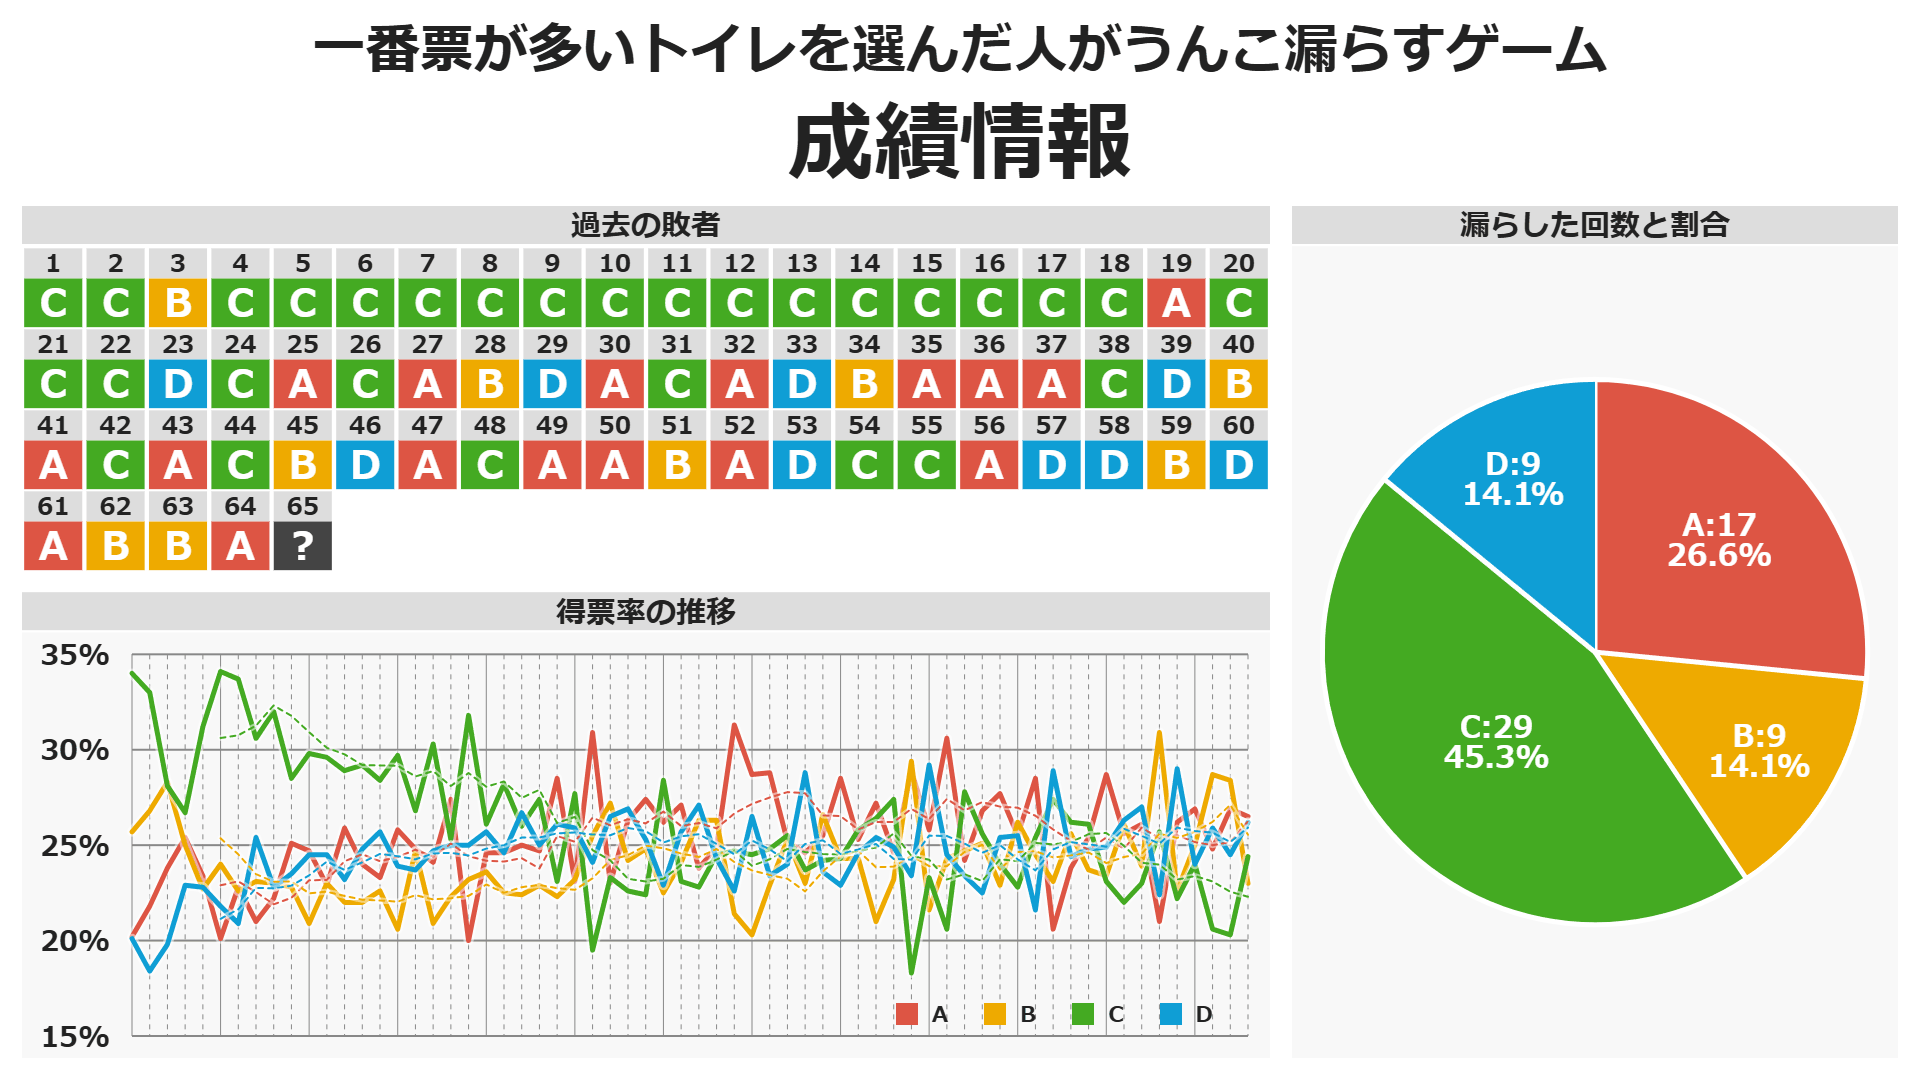
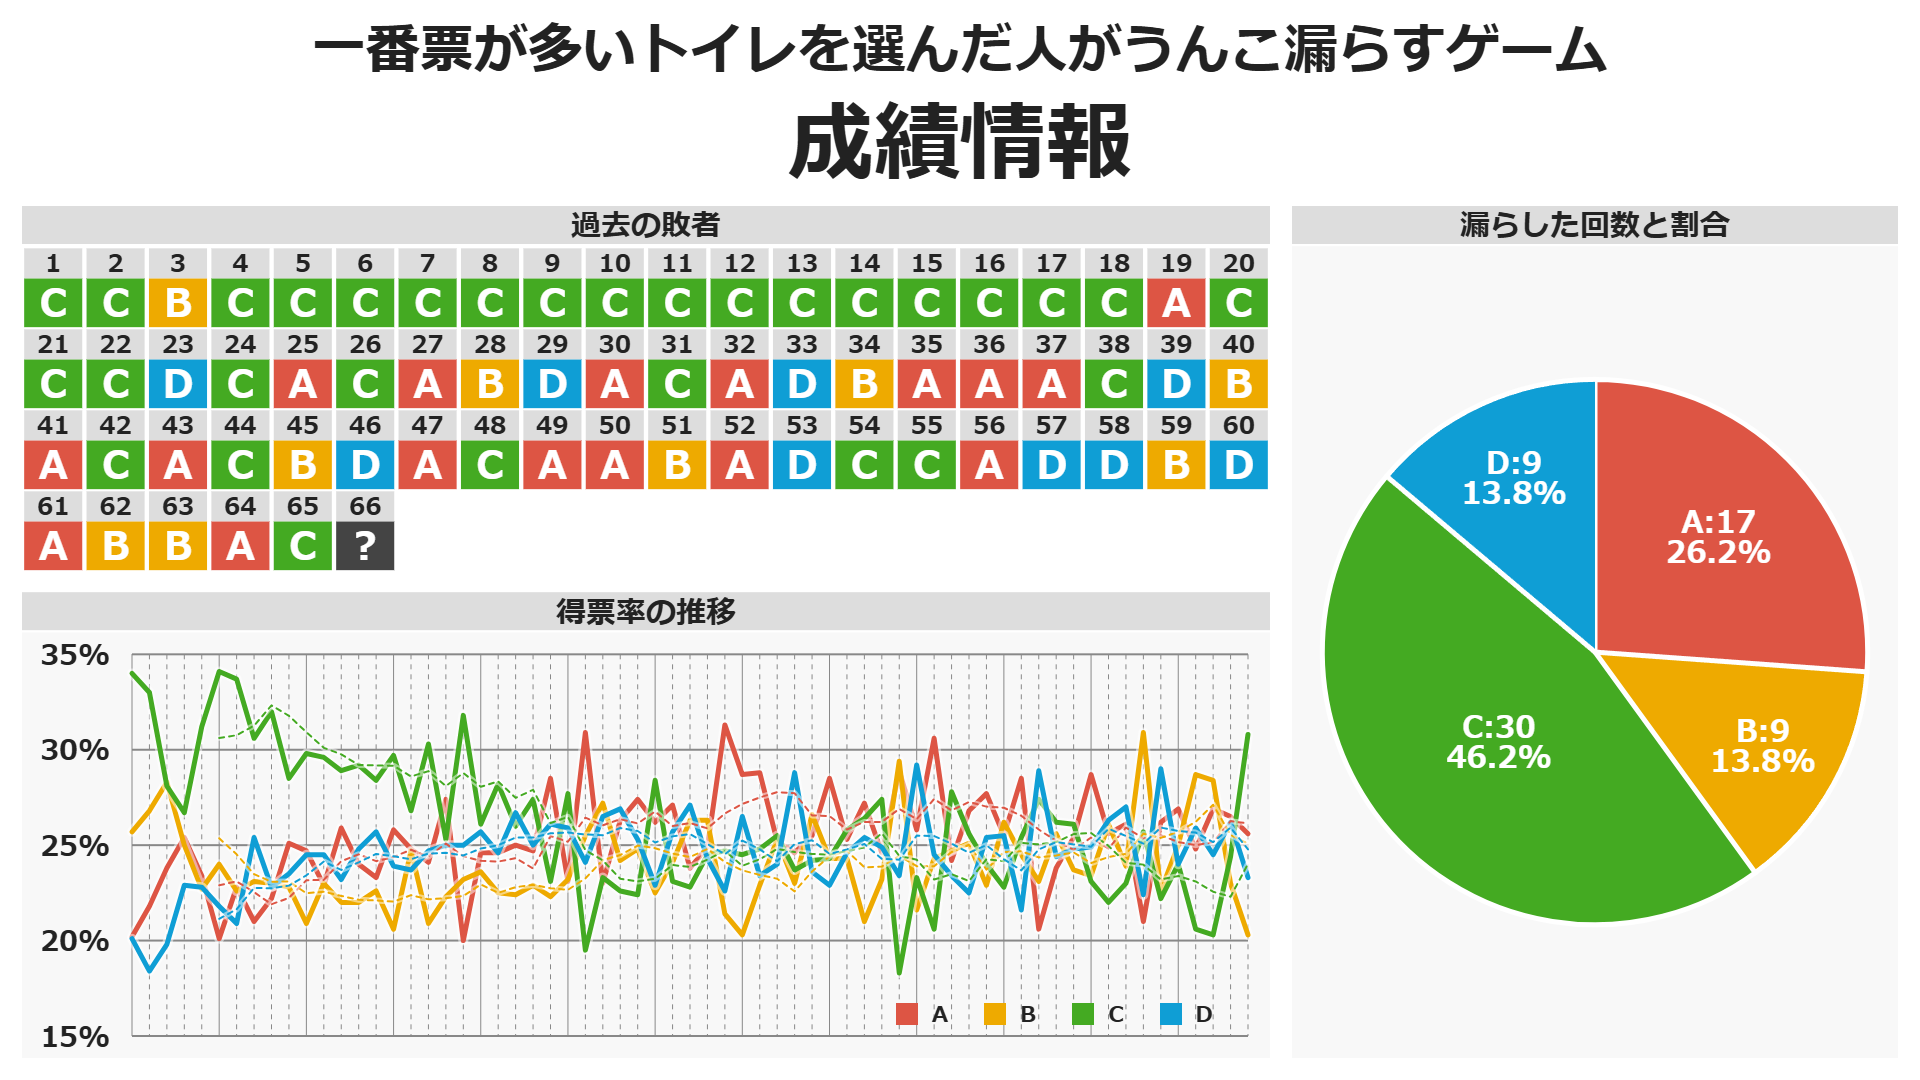
update

diff --git a/docs/work.html b/docs/work.html
@@ -33,14 +33,39 @@
       }
     </script>
 
-    <link rel="stylesheet" href="./style.css?20250209145100">
-    <script src="./toilet_game.js?20250216130800"></script>
+    <link rel="stylesheet" href="./style.css?20250222141600">
+    <script src="./toilet_game.js?20250222141600"></script>
 
     <title>4択トイレゲーム</title>
   </head>
 
   <body>
     <h1>作業用ページ</h1>
+
+    <h2>出題</h2>
+<pre id="question">
+
+</pre>
+<script>
+  const n = DB.filter(x => (!!x.total && !!x.percent)).length + 1;
+  document.querySelector('#question').textContent =
+    `一番票が多いトイレを選んだ人がうんこ漏らすゲーム 第${n}回\n` +
+    `(過去成績はスレッド参照) #4択トイレゲーム`;
+</script>
+<pre>
+A 🚽🚪 😨💨💨💨
+</pre>
+<pre>
+B 🚽🚪 😨💨💨💨
+</pre>
+<pre>
+C 🚽🚪 😨💨💨💨
+</pre>
+<pre>
+D 🚽🚪 😨💨💨💨
+</pre>
+
+    <h2>集計</h2>
     
     <textarea id="pastedText" style="width: 100%; height: 150px;">A 🚽🚪 😨💨💨💨
 11.1%

diff --git a/docs/toilet_game.js b/docs/toilet_game.js
@@ -67,5 +67,6 @@ const DB = [
   { date: '2025-02-01', total: 469  , percent: [26.9, 28.4, 20.3, 24.5], url: 'https://x.com/shapoco/status/1885548937488326831' },
   { date: '2025-02-08', total: 427  , percent: [26.5, 23.0, 24.4, 26.2], url: 'https://x.com/shapoco/status/1888100432293282163' },
   { date: '2025-02-15', total: 344  , percent: [25.6, 20.3, 30.8, 23.3], url: 'https://x.com/shapoco/status/1890584503472505101' },
-//{ date: '2025-xx-xx', total: 0, percent: null, url: null },
+  { date: '2025-02-22', total: 0  , percent: null, url: null },
+  //{ date: '2025-xx-xx', total: 0, percent: null, url: null },
 ];

diff --git a/docs/index.html b/docs/index.html
@@ -36,8 +36,8 @@
     <style>
     </style>
     
-    <link rel="stylesheet" href="./style.css?20250209145100">
-    <script src="./toilet_game.js?20250216130800"></script>
+    <link rel="stylesheet" href="./style.css?20250222141600">
+    <script src="./toilet_game.js?20250222141600"></script>
 
     <title>4択トイレゲーム</title>
   </head>

diff --git a/docs/style.css b/docs/style.css
@@ -5,3 +5,11 @@ canvas {
   width: 100%;
   height: auto;
 }
+
+pre {
+  background-color: #efefef;
+  border: solid 1px #ccc;
+  width: 100%;
+  padding: 10px;
+  overflow: auto;
+}
